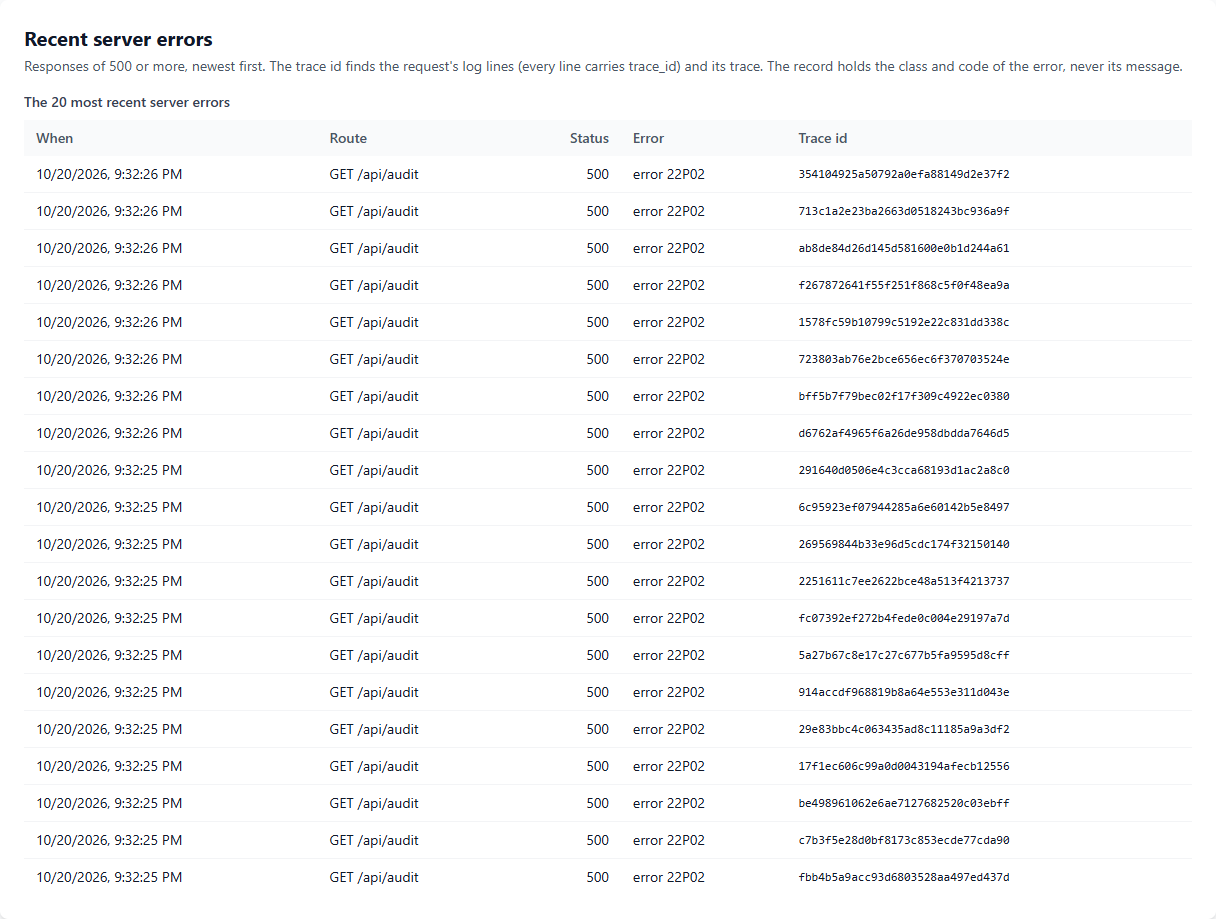
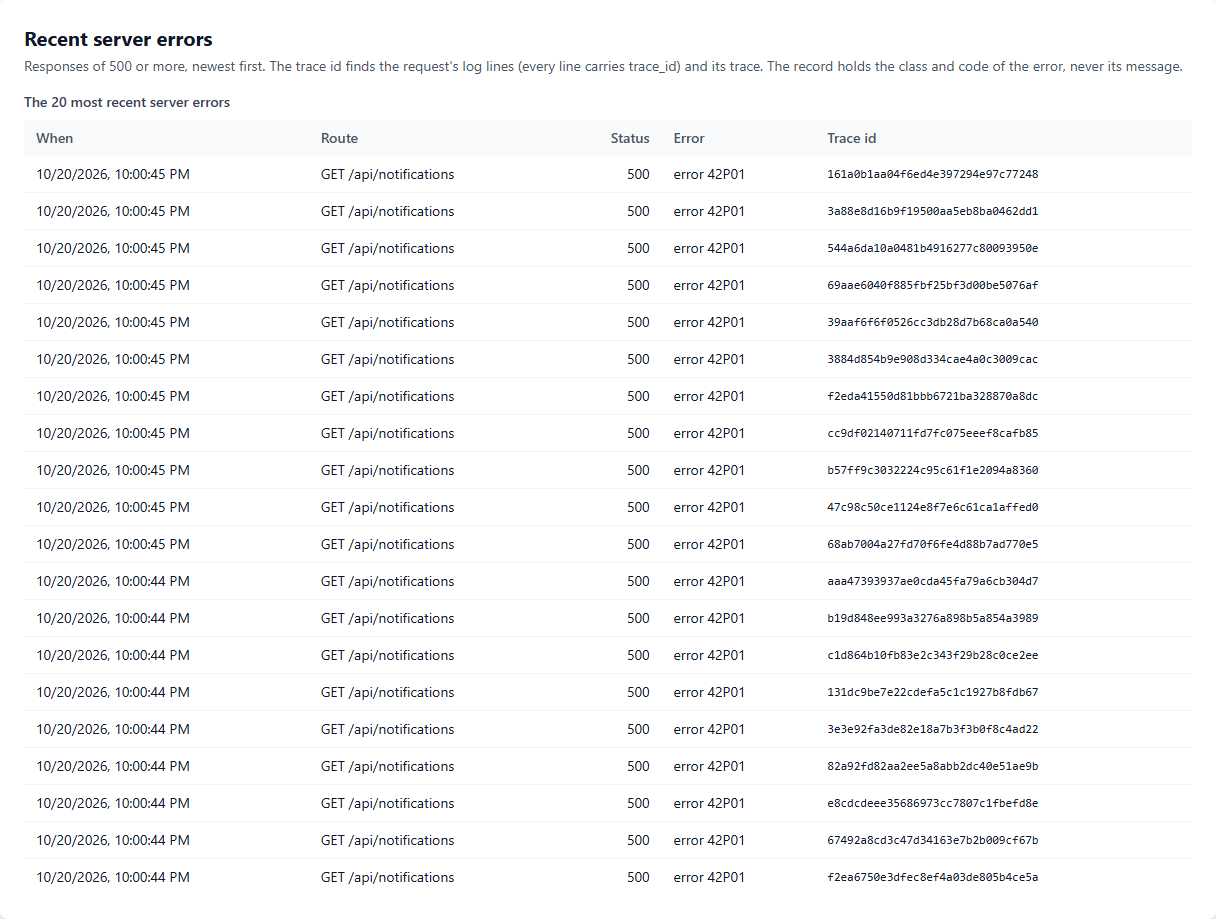
Audit log: a malformed user id is a 400, not a server error; tests make real server errors another way
GET /api/audit?actor=<not a uuid> and GET /api/audit/user/<not a uuid> sent the value to PostgreSQL, which refused it, so
the caller's mistake came back as a 500 (found by the STORY-026 to 029 work). Both now answer 400, like the other routes
that take ids. The observability suite, its evidence script and the accessibility audit used that bug as their server
error; they now use serverErrors() in scripts/e2e/lib.mjs, which renames the notifications table of the LOCAL database
for the moment of the requests, so GET /notifications fails inside PostgreSQL (42P01), and puts it back. Evidence
screenshots regenerated on a fresh database.

diff --git a/sss-modernization-demo/backend/src/routes/audit.ts b/sss-modernization-demo/backend/src/routes/audit.ts
@@ -41,6 +41,9 @@ function authMiddleware(req: any, _res: Response, next: NextFunction) {
   }
 }
 
+// A malformed id would reach PostgreSQL as a uuid, which refuses it with a server error; it is the caller's mistake, so a 400
+const UUID_PATTERN = /^[0-9a-f]{8}-[0-9a-f]{4}-[0-9a-f]{4}-[0-9a-f]{4}-[0-9a-f]{12}$/i;
+
 // Apply auth middleware to all routes
 router.use(authMiddleware);
 
@@ -63,6 +66,7 @@ router.get('/', requireStaff, async (req: any, res: Response, next: NextFunction
     for (const [name, value] of [['startDate', startDate], ['endDate', endDate]]) {
       if (value && !DATE.test(value)) throw new AppError(400, `${name} must be a date as YYYY-MM-DD`, 'VALIDATION_ERROR');
     }
+    if (actor && !UUID_PATTERN.test(actor)) throw new AppError(400, 'actor must be a user id', 'VALIDATION_ERROR');
     if (status && status !== 'success' && status !== 'failure') {
       throw new AppError(400, 'status must be success or failure', 'VALIDATION_ERROR');
     }
@@ -104,6 +108,7 @@ router.get('/user/:userId', async (req: any, res: Response, next: NextFunction) 
   try {
     const { userId } = req.params;
     const { limit = 50 } = req.query;
+    if (!UUID_PATTERN.test(userId)) throw new AppError(400, 'userId must be a user id', 'VALIDATION_ERROR');
 
     // Users can only view their own logs (staff can view anyone's)
     const requestingUserId = req.user?.sub;
